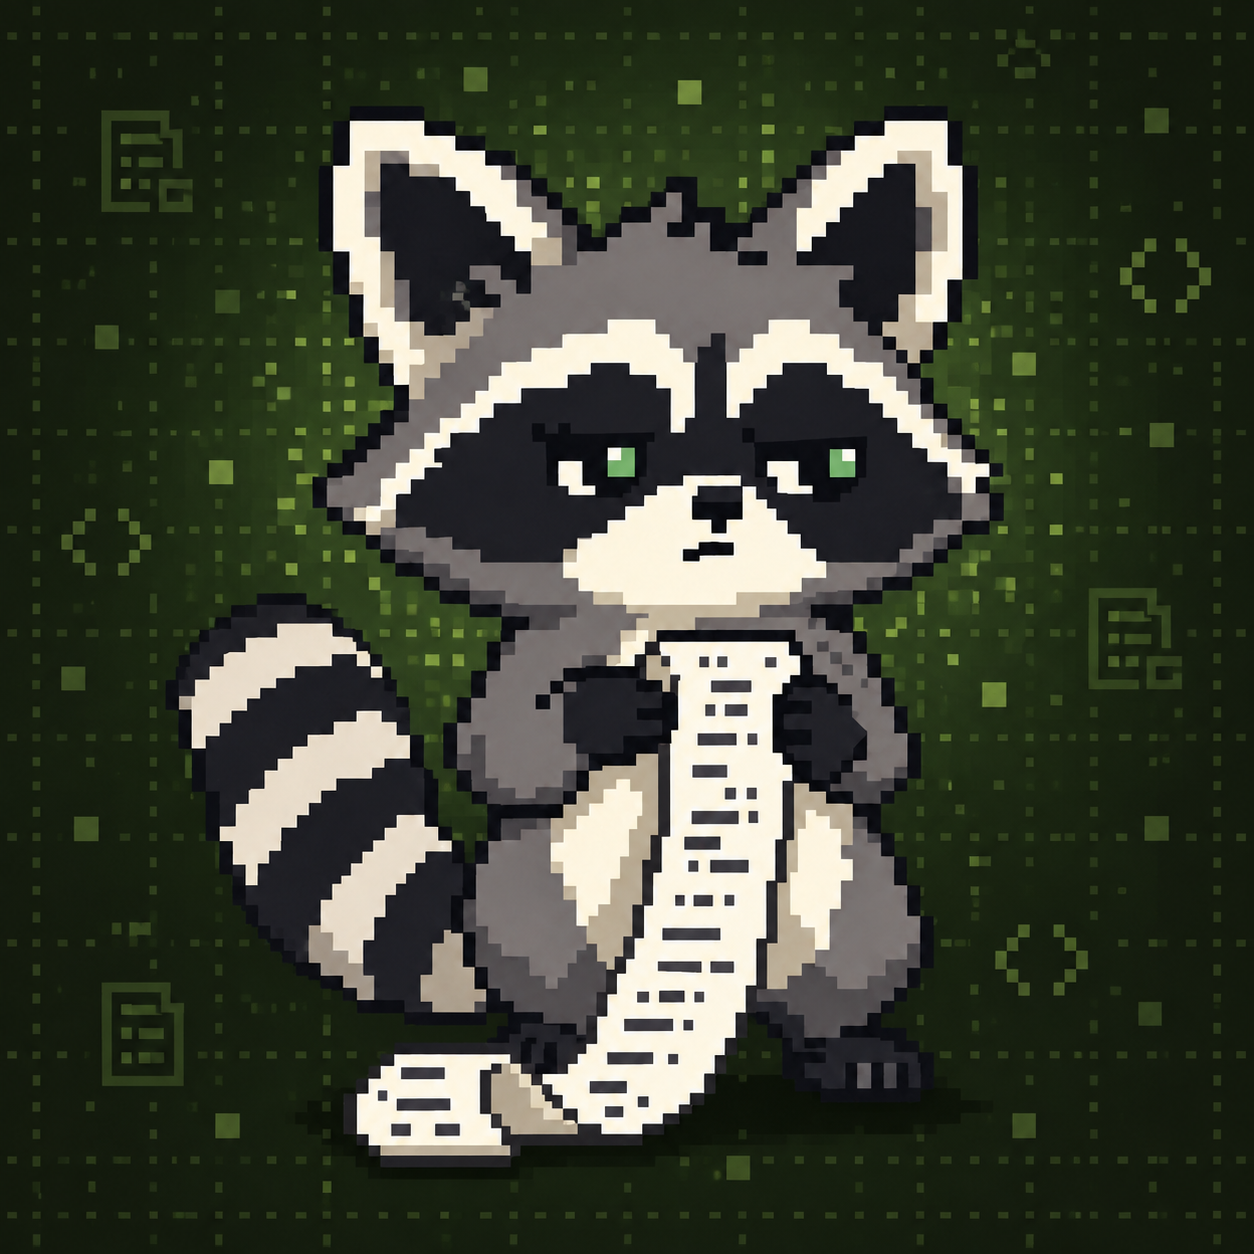
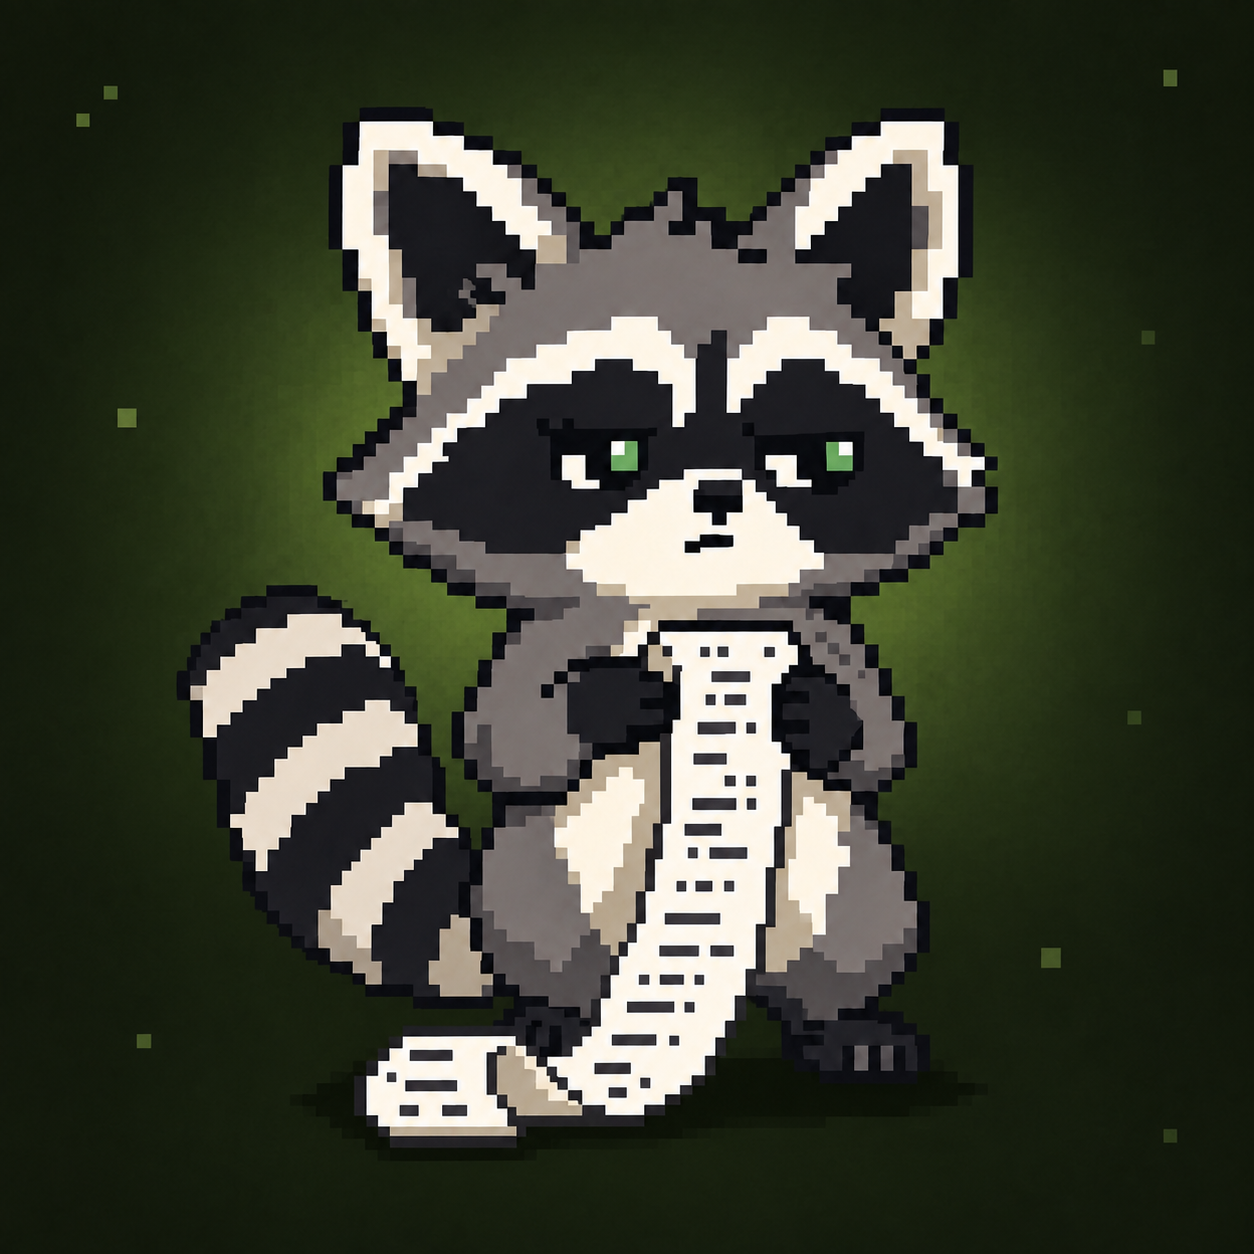
Simplify brand visuals and clarify RUMZO purpose

diff --git a/web/style.css b/web/style.css
@@ -3,6 +3,7 @@
 .topbar,main,footer{max-width:1180px;margin:auto}.topbar{height:86px;display:flex;align-items:center;justify-content:space-between;padding:0 32px;border-bottom:1px solid var(--line)}.brand{display:flex;align-items:center;gap:10px;text-decoration:none;font-weight:650;font-size:1.9rem;letter-spacing:-.06em}.brand img{object-fit:contain;image-rendering:pixelated}.brand-dot{color:var(--accent)}.network{display:flex;align-items:center;gap:9px;font-size:.8rem;color:var(--muted)}.dot{width:6px;height:6px;background:var(--accent);border-radius:50%}.version{border-left:1px solid var(--line);padding-left:12px;margin-left:4px}main{padding:32px}.intro{display:flex;align-items:center;justify-content:space-between;gap:32px;margin-bottom:28px}.intro p{color:#b7c3ad;font-size:1rem}.mascot{object-fit:contain;image-rendering:pixelated;width:190px;height:190px;margin-right:5%}.scan-form{background:var(--surface);padding:22px;border:1px solid var(--line);border-radius:14px}.fields{display:grid;grid-template-columns:1.2fr 1fr auto;gap:16px;align-items:end}.fields .primary{background:var(--accent);color:#17230e;border-color:var(--accent);font-weight:600;min-height:48px;white-space:nowrap}.fields .primary:hover{background:#daf6a1}.examples{display:flex;align-items:center;flex-wrap:wrap;gap:10px;margin-top:16px;color:var(--muted);font-size:.8rem}.examples button{border:0;border-bottom:1px dotted #728465;border-radius:0;min-height:32px;padding:4px 1px;margin-right:6px;font-size:.8rem}.examples .muted{font-size:.75rem;margin-left:auto}.status{min-height:30px;padding:10px 0;font-size:.875rem;color:var(--accent)}.error{margin:8px 0 20px;border:1px solid #ad7d69;padding:14px 18px;background:#35271f;border-radius:10px;color:#ffd5bf}
 .result-top{display:flex;align-items:center;justify-content:space-between;gap:20px;flex-wrap:wrap;margin:8px 0 24px}.result-top .eyebrow{margin-bottom:7px}.result-top p{margin-top:6px}.actions{display:flex;gap:8px;flex-wrap:wrap;font-size:.875rem}.panels{display:grid;grid-template-columns:1fr 1fr;gap:22px}.receipt{background:var(--paper);color:var(--paper-ink);border-radius:12px 12px 2px 2px;padding:24px;position:relative;min-width:0}.receipt:after{content:"";position:absolute;bottom:-7px;left:0;right:0;height:8px;background:linear-gradient(135deg,var(--paper) 25%,transparent 25%) -8px 0/16px 16px,linear-gradient(225deg,var(--paper) 25%,transparent 25%) -8px 0/16px 16px}.panel-header{display:flex;align-items:center;justify-content:space-between;gap:16px;flex-wrap:wrap;margin-bottom:18px}.receipt .panel-header{padding-bottom:14px;border-bottom:1px dashed #aab59d}.badge{font-family:ui-monospace,SFMono-Regular,Consolas,monospace;font-size:.75rem;padding:3px 7px;border:1px solid #9ca88f;border-radius:4px;text-transform:uppercase}.data-row{padding:12px 0;border-bottom:1px solid #d1d5c6;display:grid;grid-template-columns:minmax(110px,.8fr) minmax(0,1.2fr);gap:15px;align-items:start}.data-row:last-child{border:0}.data-label{font-size:.875rem;color:#56624c}.data-value{font-size:.875rem;font-weight:500;overflow-wrap:anywhere;white-space:pre-wrap}.mono{font-family:ui-monospace,SFMono-Regular,Consolas,monospace;font-size:.8rem}.receipt .note{font-size:.8rem;color:#56624c;padding:12px 0}.receipt a{color:#30481f}.file-list{list-style:none;padding:0;margin:10px 0;font-size:.8rem;overflow-wrap:anywhere}.file-list li{margin:6px 0}.file-list span{color:#647157;margin-right:8px}.changes{margin-top:34px;border:1px solid var(--line);border-radius:12px;padding:22px}.baseline-label{font-size:.8rem;flex-direction:row;align-items:center;max-width:100%;flex-wrap:wrap}.baseline-label select{font-size:.8rem;min-height:40px;width:280px;max-width:100%}.change-summary{margin-bottom:16px}.change-summary strong{color:var(--accent);font-weight:550}.changes .file-list span{color:#b6c5a9}.changes .file-list{max-height:none}.coverage{margin-top:24px;color:var(--muted);font-size:.875rem}.coverage summary{cursor:pointer;padding:10px 0;color:var(--ink)}.coverage li{margin:9px 0}.history{margin-top:38px;border-top:1px solid var(--line);padding-top:24px}.history-row{display:flex;align-items:center;gap:20px;justify-content:space-between;padding:15px 0;border-top:1px solid #283221}.history-row div{min-width:0}.history-row p{overflow-wrap:anywhere;font-size:.875rem}.history-row button{font-size:.8rem}.history-row small{color:var(--muted);font-size:.75rem}footer{border-top:1px solid var(--line);padding:24px 32px 38px;display:flex;justify-content:space-between;gap:20px;color:var(--muted);font-size:.75rem}footer>span{font-weight:600;color:var(--ink);font-size:.875rem}footer p{text-align:right}[hidden]{display:none!important}
 .panels{align-items:start}
+.intro .mascot{width:clamp(105px,18vw,210px);height:auto;aspect-ratio:1;flex-shrink:0;border:1px solid var(--line);border-radius:16px}
 .demo-comparison-label{margin-bottom:14px}
 @media(min-width:850px){.data-row:has(.mono){grid-template-columns:110px minmax(0,1fr)}}
 @media(max-width:850px){.fields{grid-template-columns:1fr 1fr}.fields .primary{grid-column:1/-1}.examples .muted{margin-left:0}.panels{grid-template-columns:1fr}.mascot{margin-right:0;width:160px;height:160px}.data-row{grid-template-columns:1fr 1.4fr}}

diff --git a/web/index.html b/web/index.html
@@ -10,7 +10,7 @@
 <body>
 <header class="topbar"><a class="brand" href="/" aria-label="RUMZO home"><img src="/assets/avatar.png" width="44" height="44" alt=""><span>rumzo<span class="brand-dot">.</span></span></a><div class="network"><span class="dot"></span>Robinhood Chain<span class="version">v0.1</span></div></header>
 <main>
-  <section class="intro"><div><div class="eyebrow">BUILDER RECEIPTS</div><h1>Big claims.<br>Small raccoon.</h1><p>See what a token’s project has published.<br> Keep the evidence. Check what changes.</p></div><img class="mascot" src="/assets/avatar.png" width="160" height="160" alt="A skeptical pixel raccoon holding a long receipt"></section>
+  <section class="intro"><div><div class="eyebrow">BUILDER RECEIPTS</div><h1>Big claims.<br>Small raccoon.</h1><p>Inspect GitHub code and token settings on Robinhood Chain.<br> Save receipts. Compare what changed.</p></div><img class="mascot" src="/assets/avatar-background.png" width="210" height="210" alt="A skeptical pixel raccoon holding a receipt on a quiet green background"></section>
   <form id="inspect-form" class="scan-form">
     <div class="fields"><label>Token contract<input id="token" name="token" placeholder="0x… on Robinhood Chain" autocomplete="off" spellcheck="false" required maxlength="42"></label><label>GitHub repository<input id="repository" name="repository" placeholder="owner/repository or GitHub URL" autocomplete="off" spellcheck="false" required maxlength="300"></label><button class="primary" id="scan-button" type="submit">Get receipts <span aria-hidden="true">↗</span></button></div>
     <div class="examples"><button type="button" id="demo-button">Explore demo</button><span class="muted">Synthetic walkthrough · no network requests to providers</span></div>

diff --git a/src/server/app.ts b/src/server/app.ts
@@ -11,7 +11,7 @@ const staticFiles: Record<string, [string, string]> = {
   '/': ['index.html', 'text/html; charset=utf-8'], '/app.js': ['app.js', 'text/javascript; charset=utf-8'],
   '/style.css': ['style.css', 'text/css; charset=utf-8']
 };
-const assetFiles: Record<string, string> = { 'avatar.png': 'image/png', 'empty-receipts.png': 'image/png', 'receipt.svg': 'image/svg+xml', 'compare.svg': 'image/svg+xml', 'mark.svg': 'image/svg+xml' };
+const assetFiles: Record<string, string> = { 'avatar.png': 'image/png', 'avatar-background.png': 'image/png', 'empty-receipts.png': 'image/png', 'receipt.svg': 'image/svg+xml', 'compare.svg': 'image/svg+xml', 'mark.svg': 'image/svg+xml' };
 function json(res: ServerResponse, status: number, body: unknown) { res.writeHead(status, { 'Content-Type': 'application/json; charset=utf-8' }); res.end(JSON.stringify(body)); }
 async function readBody(req: IncomingMessage): Promise<unknown> {
   if (!req.headers['content-type']?.startsWith('application/json')) throw new Error('Send application/json.');

diff --git a/docs/ASSET-PROMPTS.md b/docs/ASSET-PROMPTS.md
@@ -1,5 +1,7 @@
 # Illustration provenance
 
+The latest avatar and banner revisions are documented at the end of this file. Earlier prompts below record the previous versions.
+
 Tool: built-in image generation. Date: 6 September 2026.
 
 The original RUMZO avatar is the character reference. The new illustration is stored in `assets/empty-receipts.png`; the original avatar is stored in `assets/avatar.png`.
@@ -27,3 +29,17 @@ Use case: identity-preserve. Asset type: square RUMZO project avatar. Edit the s
 Tool: built-in image generation. Date: 7 September 2026. Mode: generation with character and palette references. Output: `assets/banner.png` (2172 × 724). References: `assets/avatar.png` and `assets/avatar-background.png`.
 
 Use case: ads-marketing. Asset type: finished wide GitHub README banner for RUMZO. Create ONE very wide horizontal banner with a 3:1 aspect ratio, approximately 1536 x 512 pixels. Input image 1 is the original RUMZO raccoon character identity reference. Input image 2 is the matching finished square avatar background style reference. Preserve the raccoon's skeptical expression, charcoal and gray fur, cream markings, green eyes, striped tail, chunky pixel art and long paper receipt. Original professional pixel-art brand banner, cohesive with the green avatar, deliberately spacious and readable. Composition: large typography occupies the left 60 percent; the recognizably same full-body raccoon with receipt occupies the right third. Keep all content well inside a 6 percent safe margin. Background fills the canvas: dark forest green #11150f, muted sage pixel grid and a few subtle receipt and code bracket motifs, soft restrained lime halo around the character. The left text zone is very clean and dark. Typography: large warm-cream blocky pixel lettering with a restrained pale lime offset accent, exact main text 'RUMZO'. Under it in much smaller crisp legible type: 'SHOW THE RECEIPTS.' Exactly these two text lines and no other words. The title must dominate at small README display sizes. Rich pixel craft, hard edges, tasteful simple composition, no photos, no 3D, no watermarks, no coins, no trading screens, no extra brands, no token addresses, no statistical claims. This is a title banner, not a screenshot or interface mockup.
+
+## Simplified avatar revision
+
+Tool: built-in image generation. Date: 7 September 2026. Mode: edit. Output: `assets/avatar-background.png` (1254 × 1254). Edit target: the previous square avatar with background.
+
+Use case: identity-preserve. Asset type: square RUMZO profile avatar, revision of the supplied edit target. Keep the raccoon itself unchanged: full-body skeptical pixel raccoon, gray and charcoal fur, cream markings, green eyes, striped tail and long cream receipt, same pose and proportions. Simplify ONLY the background moderately. Remove the code-bracket and document icons entirely, remove the dense grid and most tiny dots. Replace with a calm opaque dark forest-green background, a broad restrained sage-green halo behind the character, and only 6 to 10 tiny low-contrast square accents near the outer edges. The background should feel designed and warm, not empty, but much quieter than the input. Keep crisp chunky pixel-art edges and subtle stepped shading; no photographic texture. Keep the original character scale and generous safe margins, readable in a circular avatar crop. Palette #11150f, muted forest and sage, cream and charcoal. Square 1:1 finished PNG, approximately 1254 x 1254. No text, letters, numbers, logos, extra objects, code, interface motifs, coins or watermark.
+
+## Concise banner revision
+
+Tool: built-in image generation. Date: 7 September 2026. Mode: edit. Output: `assets/banner.png` (2172 × 724). Edit target: the previous banner. Supporting reference: the simplified square avatar above. These revisions replace the earlier versions at the same asset paths.
+
+Use case: precise-object-edit. Asset type: revised wide RUMZO GitHub README banner. Image 1 is the existing banner to edit; Image 2 is the approved simplified square avatar as supporting palette, character and background reference. Preserve the main banner layout: large RUMZO title on the left and the recognizable full-body skeptical raccoon holding a long cream receipt on the right, same identity, gray/charcoal fur, cream markings, green eyes, striped tail, crisp chunky pixel art. Simplify the banner background to match Image 2: calm opaque dark forest green, a restrained muted-sage glow behind the raccoon, only a handful of low-contrast square accents along outer edges. Remove all code brackets, document icons, grids and dense pixel confetti. Keep a designed but quiet background, not flat empty black. Replace the existing subtitle with exactly these TWO concise lines, verbatim and in this capitalization: 'GitHub evidence.' and 'Robinhood Chain snapshots.' These describe the actual product. Set these lines in clean very legible warm-cream type, large enough to read at a README display width of 800 pixels. The title text is exactly 'RUMZO' in large warm-cream blocky pixel type with a subtle muted-sage offset; keep it dominant while leaving comfortable breathing room above the two subtitle lines. Remove the old 'SHOW THE RECEIPTS.' subtitle. Exactly three lines of text in total: RUMZO, GitHub evidence., Robinhood Chain snapshots. No other text or logos. Wide horizontal 3:1 composition around 2172 x 724. Maintain at least 6 percent safe margins and balanced clean spacing. No extra characters, interface panels, trading imagery, badges, coins or watermarks. Finished polished PNG banner, no montage.
+
+The refreshed `assets/screenshots/home.png` is a capture of the running application's updated hero, including the simplified avatar and product description. Its headline remains “Big claims. Small raccoon.” It is not an AI-generated interface.

diff --git a/docs/BRAND.md b/docs/BRAND.md
@@ -5,11 +5,12 @@ RUMZO is a skeptical, curious raccoon who asks to see the receipts.
 - Name: **RUMZO**; UI wordmark: **rumzo.**
 - Main line: **Show the receipts.**
 - Product line: **Big claims. Small raccoon.**
+- Banner description: **GitHub evidence. Robinhood Chain snapshots.**
 - Palette: forest #11150f, pale green #c7e887, warm paper #f3f0e3, ink #26311e.
 - Voice: specific observations, clear uncertainty, compact explanations.
 
 The original pixel character appears in assets/avatar.png and assets/empty-receipts.png. The second pose is used by the empty history state. Illustrations were made with the built-in image generation tool; the SVG receipt symbols were authored as editable vector code. See [asset provenance](../assets/README.md) and [the illustration prompt](ASSET-PROMPTS.md).
 
-The README uses assets/banner.png as its header and assets/avatar-background.png as its square profile image. Both share a dark green pixel backdrop, pale green glow and cream details. The original transparent character remains available for application layouts. Keep the 3:1 banner and 1:1 avatar proportions intact.
+The README uses assets/banner.png as its header and assets/avatar-background.png as its square profile image. The application hero also uses the square avatar. Both share a quiet dark green backdrop, restrained sage glow and cream details, with just a few pixel accents. Keep decorative programming symbols and dense grids out of these two assets. The original transparent character remains available for compact application branding. Keep the 3:1 banner and 1:1 avatar proportions intact.
 
 Screenshots document actual application states. Synthetic examples must keep their visible demo label. Do not present fixture values as real token observations.

diff --git a/assets/README.md b/assets/README.md
@@ -3,8 +3,8 @@
 | File | Purpose | Origin |
 | --- | --- | --- |
 | avatar.png | Original transparent character used in the app | Original AI-generated illustration |
-| avatar-background.png | Square avatar for README and profiles, 1254 × 1254 | Original character with an opaque green pixel-art background |
-| banner.png | README header and reusable wide banner, 2172 × 724 | Original 3:1 pixel-art banner matching the avatar |
+| avatar-background.png | Square avatar for README, profiles and application hero, 1254 × 1254 | Original character with a simplified opaque green background |
+| banner.png | README header and reusable wide banner, 2172 × 724 | Original 3:1 pixel-art banner with a concise GitHub and Robinhood Chain description |
 | empty-receipts.png | Empty receipt-history state | New illustration based on the original RUMZO character |
 | rumzo-workbench.png | README evidence-workbench illustration | New illustration based on the original RUMZO character |
 | mark.svg | Browser favicon and compact receipt mark | Hand-authored SVG |

diff --git a/README.md b/README.md
@@ -1,6 +1,6 @@
-![RUMZO — Show the receipts. Pixel raccoon on a dark green background](assets/banner.png)
+![RUMZO — GitHub evidence. Robinhood Chain snapshots.](assets/banner.png)
 
-<p align="center"><a href="assets/avatar-background.png"><img src="assets/avatar-background.png" width="120" height="120" alt="RUMZO avatar: a skeptical pixel raccoon with a receipt on a green pixel background"></a></p>
+<p align="center"><a href="assets/avatar-background.png"><img src="assets/avatar-background.png" width="120" height="120" alt="RUMZO avatar: a skeptical pixel raccoon with a receipt on a quiet green background"></a></p>
 
 # RUMZO
 
